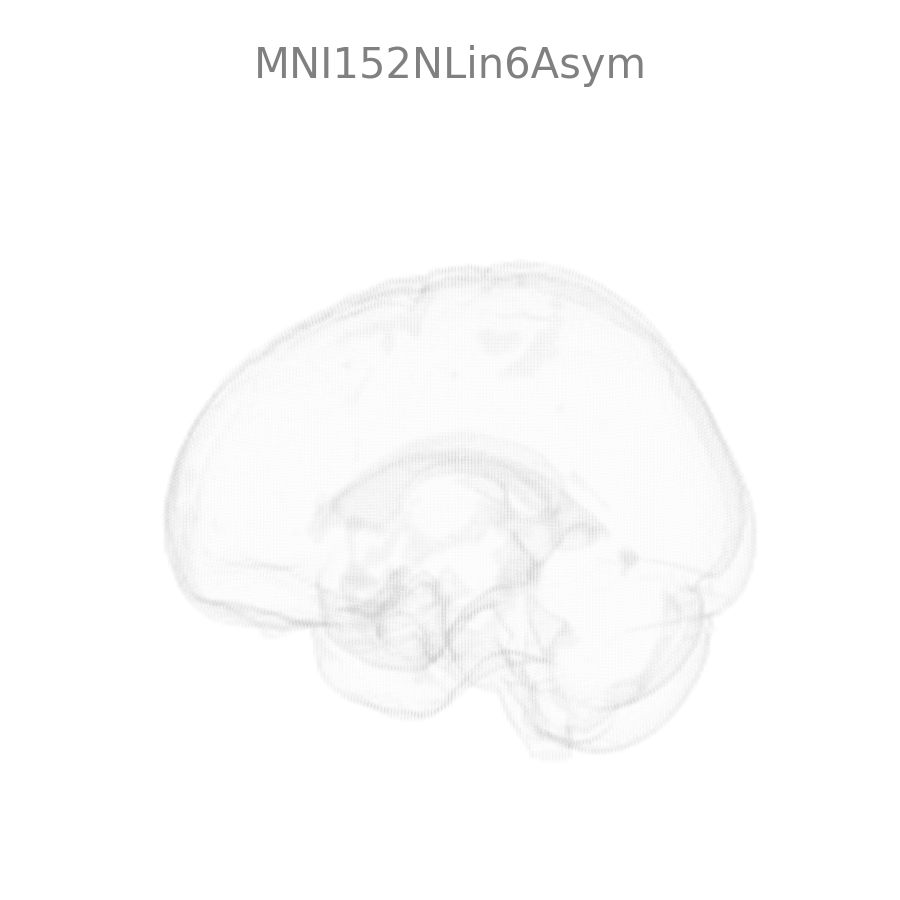
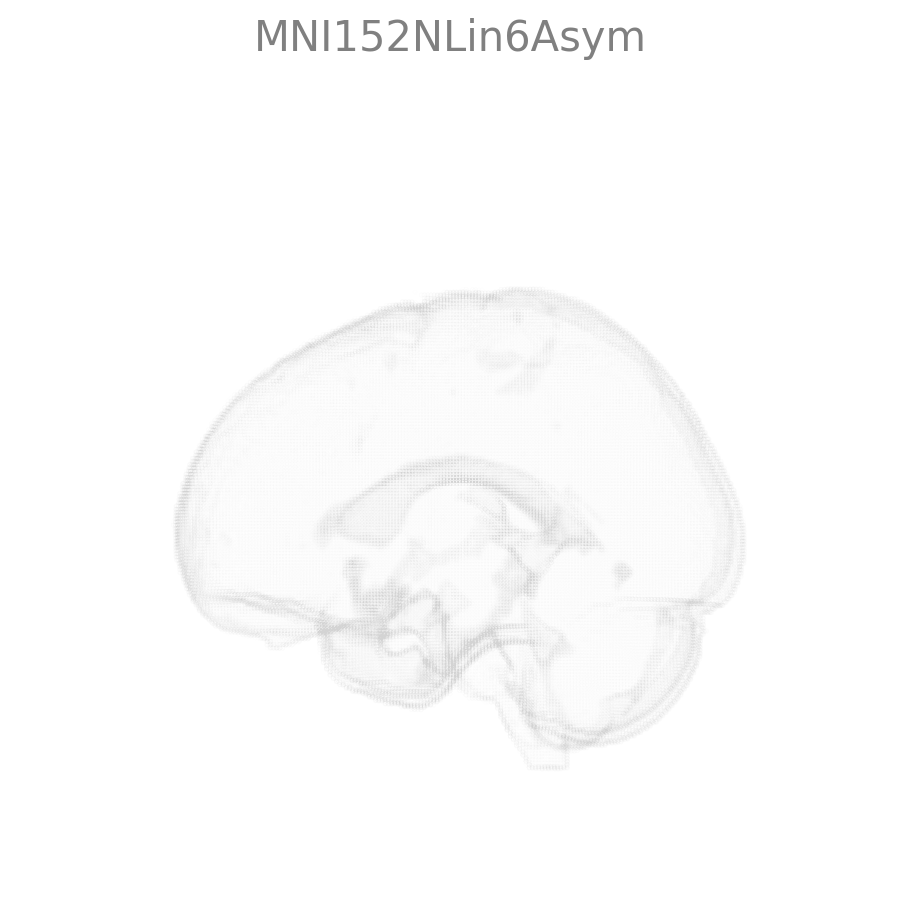
tf options figures and code

diff --git a/tf_options.py b/tf_options.py
@@ -6,38 +6,42 @@ import matplotlib.pyplot as plt
 
 # Adult brain MNI152NLin6Asym
 netplotbrain.plot(template='MNI152NLin6Asym',
-                  templatestyle='glass',
+                  template_style='glass',
                   view='L',
                   arrowaxis=None,
-                  subtitles='MNI152NLin6Asym')
+                  title='MNI152NLin6Asym',
+                  subtitles=None)
 
 plt.savefig('./figures/adultMNI.png', dpi=300)
 
 # Infant template MNIInfant_cohort-3
 # Setting a larger templatevoxsize will make it slightly quicker
 netplotbrain.plot(template='MNIInfant_cohort-3',
-                  templatestyle='glass',
+                  template_style='glass',
                   view='L',
                   arrowaxis=None,
-                  subtitles='MNIInfant_cohort-3')
+                  title='MNIInfant_cohort-3',
+                  subtitles=None)
 
 plt.savefig('./figures/infantMNIcohort3.png', dpi=300)
 
 # Rat template WHS
 netplotbrain.plot(template='WHS',
-                  templatestyle='glass',
+                  template_style='glass',
                   view='L',
                   arrowaxis=None,
-                  subtitles='WHS')
+                  title='WHS',
+                  subtitles=None)
 
 plt.savefig('./figures/ratWHS.png', dpi=300)
 
 
 # Squirrel monkey VALiDATe29 
 netplotbrain.plot(template='VALiDATe29',
-                  templatestyle='glass',
+                  template_style='glass',
                   view='L',
                   arrowaxis=None,
-                  subtitles='VALiDATe29')
+                  title='VALiDATe29',
+                  subtitles=None)
 
 plt.savefig('./figures/squirrelmonkeyValidate29.png', dpi=300)
